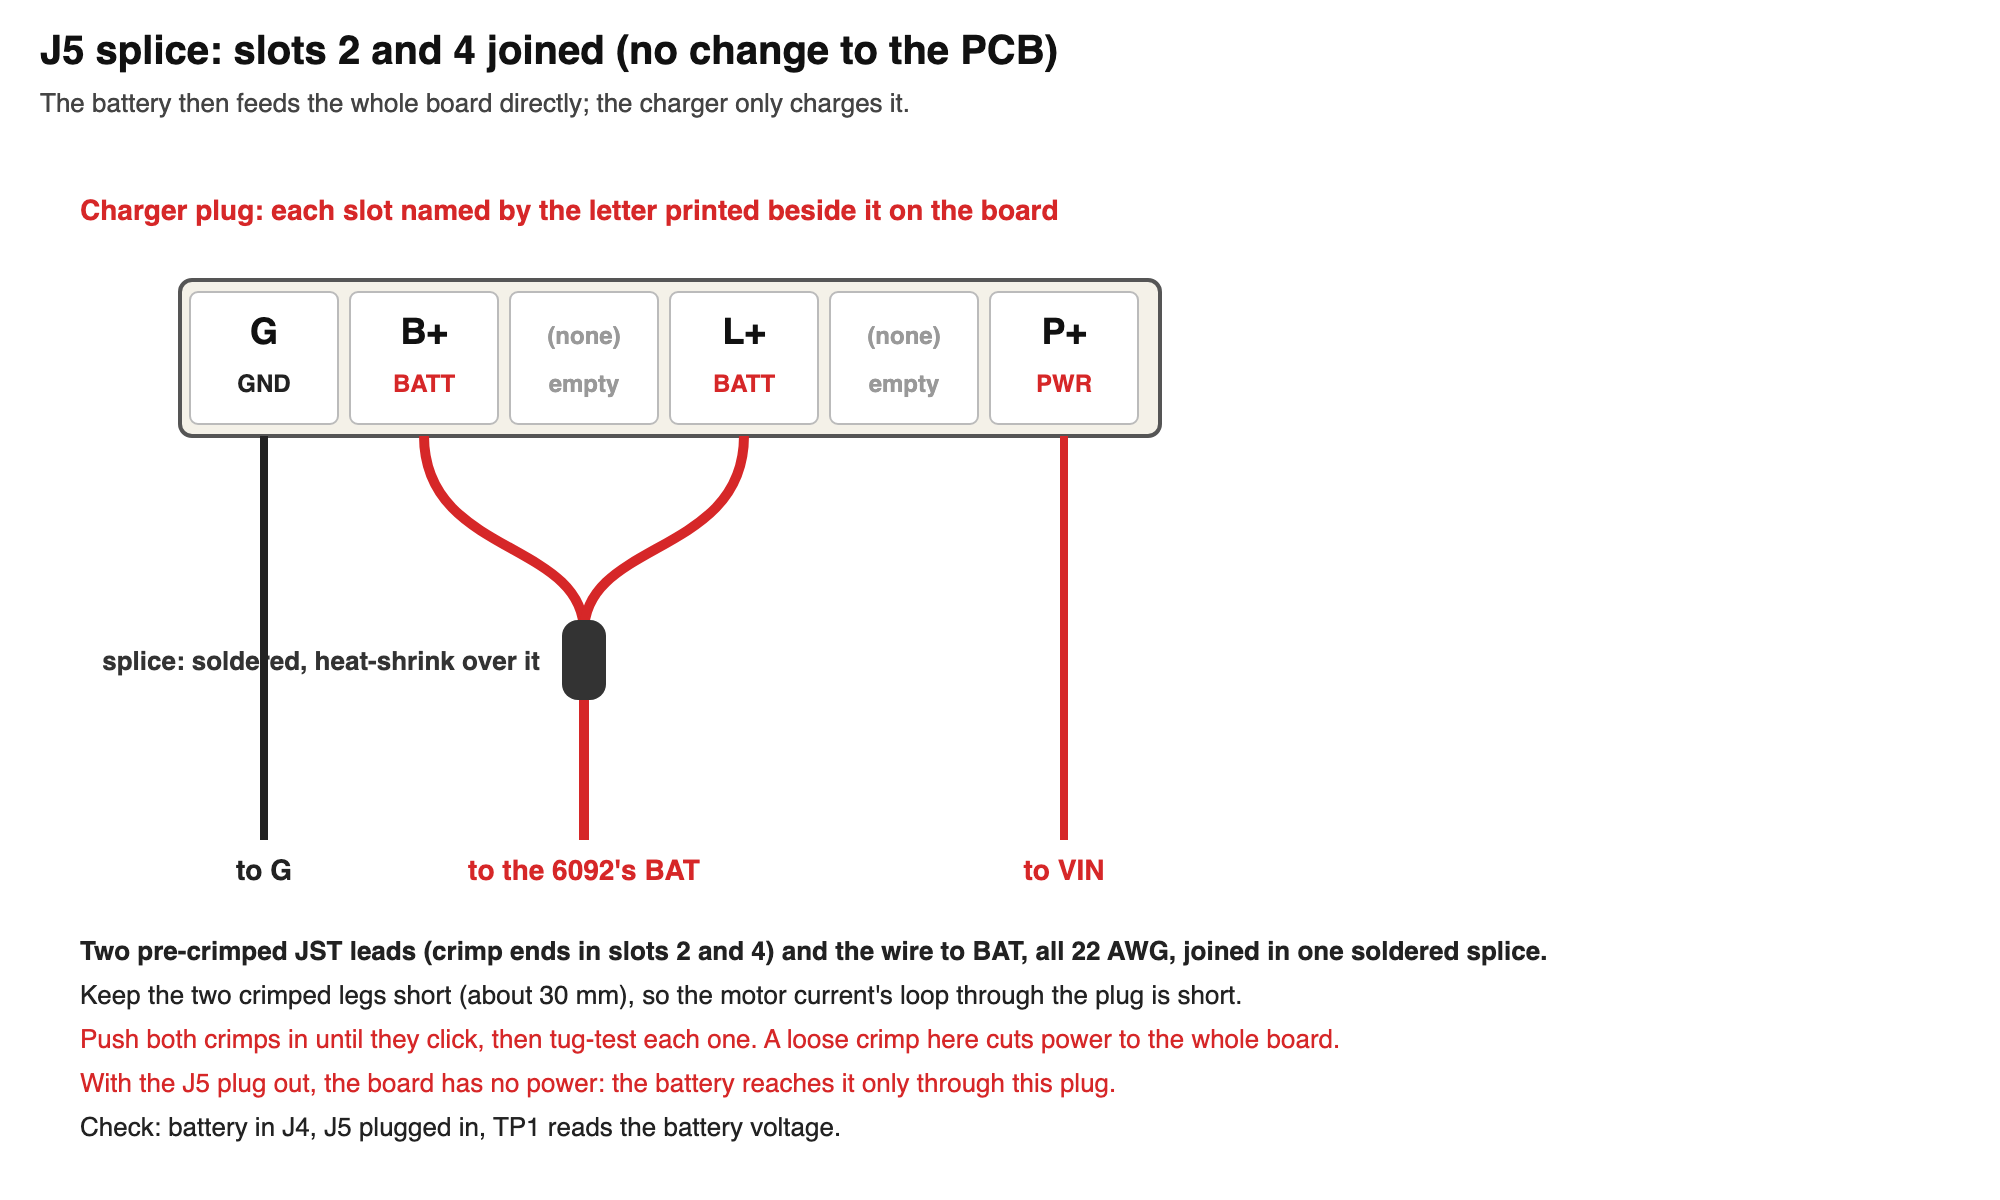
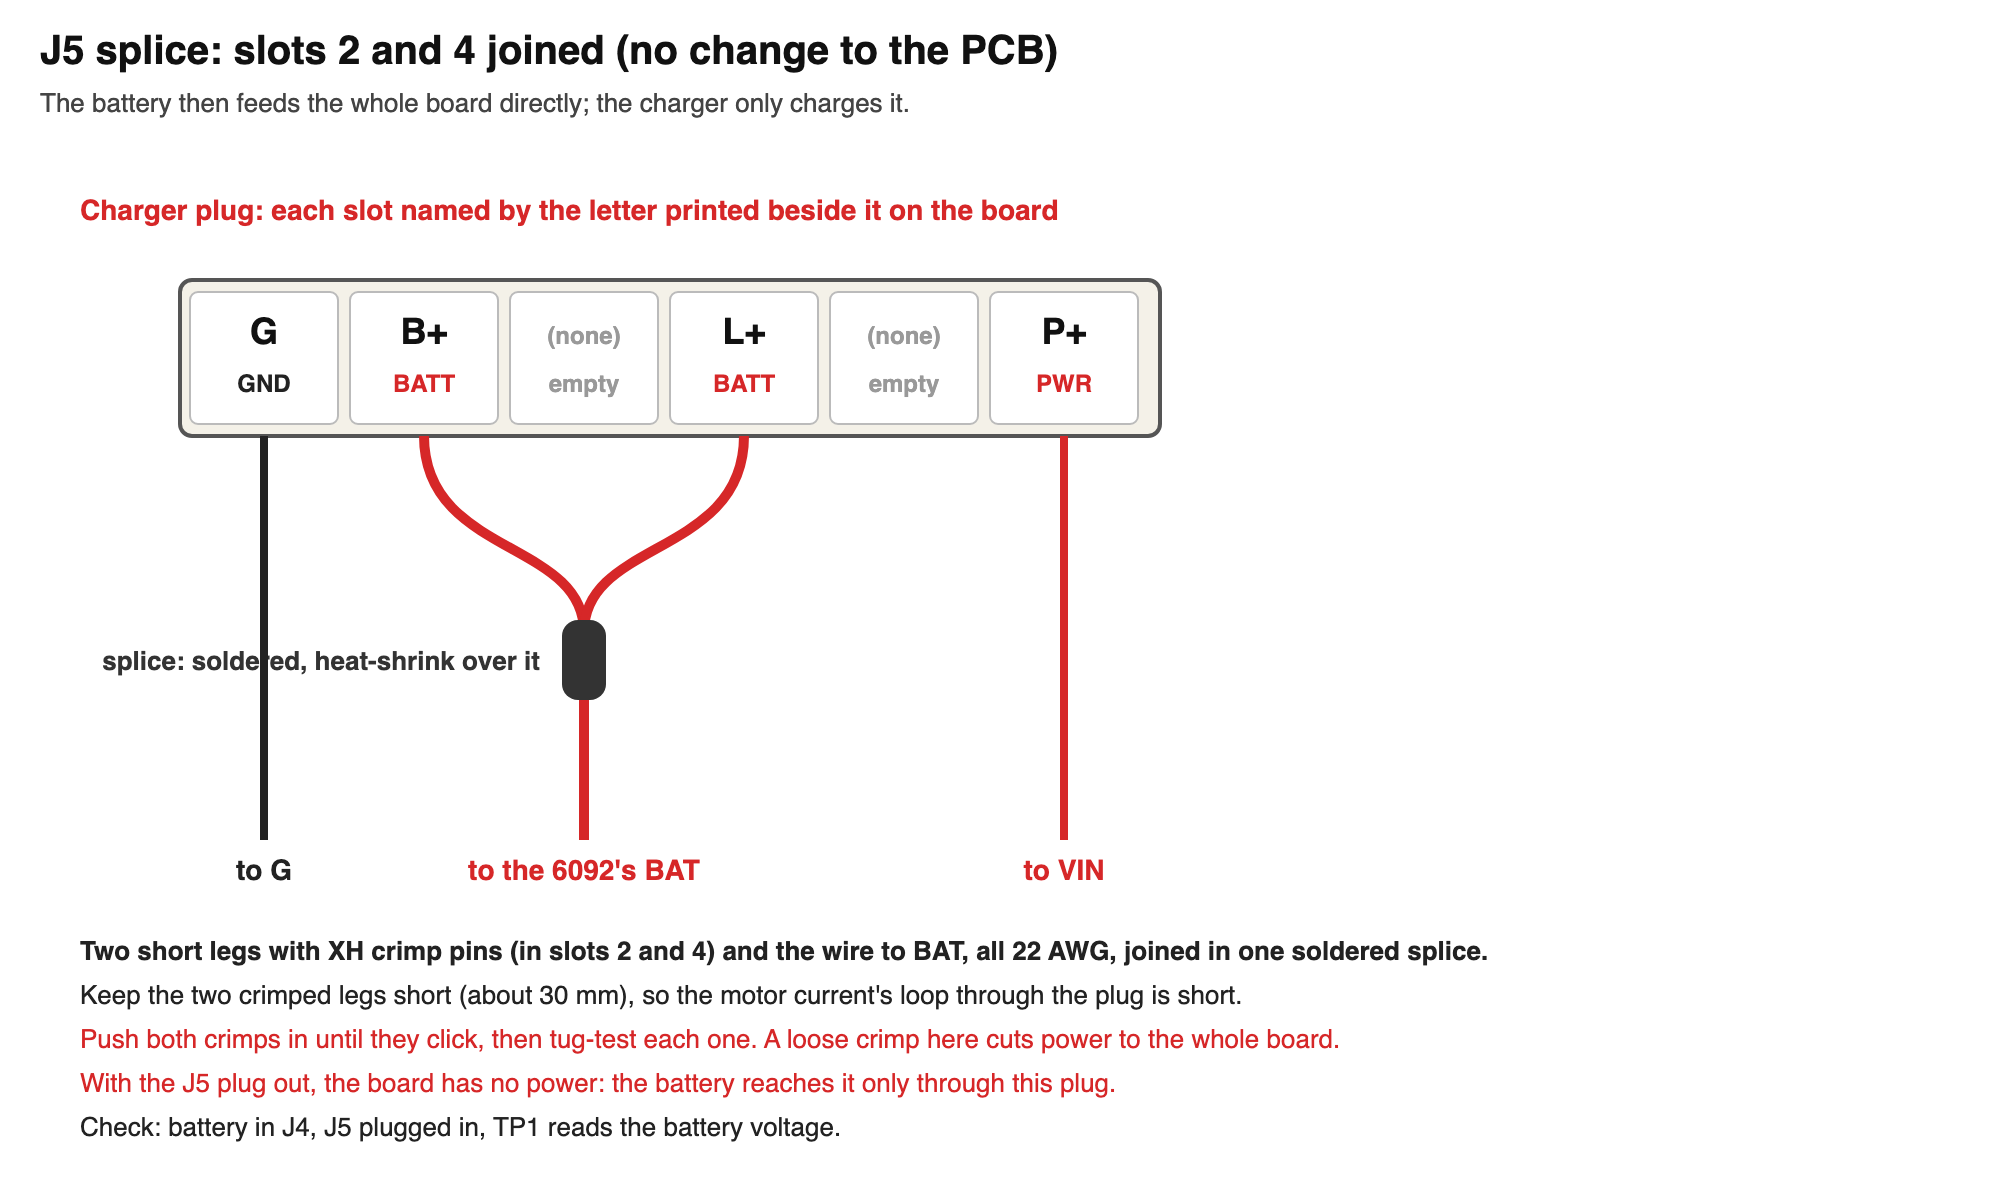
BOM and build guide: crimp your own J5 pins, pre-crimped XH leads optional (#242) (#243)
Default is plain 22 AWG wire with JST-XH crimp pins (SXH-001T-P0.6) for the
XHP-6 plug in J5. The pre-crimped leads stay as the option with no crimper.
Adds the crimp pins to the PCB parts and a crimper to Tools.

Session: BOM: crimp your own J5 pins

Changed region(s): [[0.062, 0.7708, 0.775, 0.8017]]

diff --git a/tools/pcb_guide.py b/tools/pcb_guide.py
@@ -525,7 +525,7 @@ def splice_picture():
         o.append('<line x1="%d" y1="%d" x2="%d" y2="%d" stroke="%s" stroke-width="4"/>' % (x0, y0, x0, sy + 90, c))
         o.append(text(x0, sy + 110, lab, 14, c, 'bold'))
     for k_, t in enumerate([
-            'Two pre-crimped JST leads (crimp ends in slots 2 and 4) and the wire to BAT, all 22 AWG, joined in one soldered splice.',
+            'Two short legs with XH crimp pins (in slots 2 and 4) and the wire to BAT, all 22 AWG, joined in one soldered splice.',
             'Keep the two crimped legs short (about 30 mm), so the motor current\'s loop through the plug is short.',
             'Push both crimps in until they click, then tug-test each one. A loose crimp here cuts power to the whole board.',
             'With the J5 plug out, the board has no power: the battery reaches it only through this plug.',
@@ -605,7 +605,7 @@ def md():
                                    ', '.join(r for r, _ in lst), ', '.join(sorted({str(k) for _, k in lst}))))
     a('| ESP32-C6 SuperMini (male pins on, flashed on the bench) | 1 | plugs into J1 / J2 | 13 |')
     a('| Adafruit 6092 charger (bq25185), charging only, + 3-wire harness (6-pin XH housing) | 1 | J5 | 11 |')
-    a('| Extra pre-crimped JST lead for the J5 battery splice (slot 4) + heat-shrink | 1 | J5 plug | 11 |')
+    a('| JST-XH crimp pins on 22 AWG wire (or the optional pre-crimped leads) for the J5 harness, + heat-shrink | 4 | J5 plug | 11 |')
     a('| 18650 cell with its JST-XH plug | 1 | J4 | 12 |')
     a('| Solar panel lead with a JST-ZH 2-pin plug (optional) | 1 | J8 | 11 |')
     a('')
@@ -809,15 +809,17 @@ def md():
     a('')
     a('| Lead | Wire | Cut | From → to |')
     a('|---|---|---|---|')
-    a('| Splice leg A | 22 AWG, pre-crimped JST lead | about 30 mm | J5 slot 2 → the splice |')
-    a('| Splice leg B | 22 AWG, pre-crimped JST lead | about 30 mm | J5 slot 4 → the splice |')
+    a('| Splice leg A | 22 AWG, XH crimp pin on the plug end | about 30 mm | J5 slot 2 → the splice |')
+    a('| Splice leg B | 22 AWG, XH crimp pin on the plug end | about 30 mm | J5 slot 4 → the splice |')
     a('| Charger BATT | 22 AWG | about 50 mm | the splice → **BAT** pad |')
-    a('| Charger GND | 22 AWG, pre-crimped JST lead | 76 mm | J5 pin 1 → **G** pad |')
-    a('| Charger PWR | 22 AWG, pre-crimped JST lead | 76 mm | J5 pin 6 → **VIN** pad (solar in; USB shows here too) |')
+    a('| Charger GND | 22 AWG, XH crimp pin on the plug end | 76 mm | J5 pin 1 → **G** pad |')
+    a('| Charger PWR | 22 AWG, XH crimp pin on the plug end | 76 mm | J5 pin 6 → **VIN** pad (solar in; USB shows here too) |')
     a('| Battery | the cell\'s own JST-XH lead (needs ≥ 45 mm) | as is | cell → J4 |')
     a('| Solar (optional) | the panel\'s flat 2-core cable | to suit | through end wall B → JST-ZH plug in J8 |')
     a('')
-    a('The pre-crimped JST leads are 152 mm with a crimp on both ends: cut them so the crimp end goes in the J5 housing.')
+    a('Cut the four plug wires, strip about 2 mm on one end and crimp a JST-XH pin (SXH-001T-P0.6) on it with an XH')
+    a('crimper. Tug each pin hard: it must not slide off. **No crimper?** Use the optional pre-crimped leads (152 mm, a')
+    a('crimp on both ends) instead: cut each one to the length above, keeping a crimp end for the J5 housing.')
     a('')
     a('### 11a: The battery splice in the J5 plug (slots 2 and 4)')
     a('')
@@ -826,7 +828,7 @@ def md():
     a('Nothing changes on the PCB. On the board, J5 pin 2 is the battery and pin 4 is the board supply; putting the battery')
     a('wire in **both** slots joins them, so the battery feeds the board directly.')
     a('')
-    a('1. Two pre-crimped leads, cut to about **30 mm**: their crimp ends go in **slot 2** and **slot 4**.')
+    a('1. The two splice legs, about **30 mm** each, with their crimp pins in **slot 2** and **slot 4**.')
     a('2. Strip the two bare ends and the wire to the 6092\'s **BAT** pad, twist all three together, solder, and slide')
     a('   heat-shrink over the joint.')
     a('3. If your J5 plug still has the old LOAD wire in slot 4, pull it out first (lift the plastic tab over its crimp with a')

diff --git a/hardware/BOM.md b/hardware/BOM.md
@@ -113,12 +113,13 @@ References match the [PCB build guide](../docs/pcb-build.md).
 | JST-XH header, 2-pin, vertical | **B2B-XH-A(LF)(SN)** | 1 (J4, battery) | each |
 | JST-XH header, 6-pin, vertical | **B6B-XH-A(LF)(SN)** | 1 (J5, charger) | each |
 | JST-XH 6-pin housing | **XHP-6** | 1 | each |
-| Pre-crimped JST-XH leads, 6", crimp both ends (cut in half = 2 leads) | **ASXHSXH22K152** | 2 (4 half leads: 2 splice, GND, PWR) | each |
+| JST-XH crimp pins, for 22 AWG wire | JST **SXH-001T-P0.6** | 4 (J5 plug: 2 splice, GND, PWR) | bag |
+| Optional, only with no JST crimper: pre-crimped JST-XH leads, 6", crimp both ends (cut in half = 2 leads), in place of the crimp pins and wire | **ASXHSXH22K152** | 2 (4 half leads) | each |
 | JST-ZH header, 2-pin, vertical (solar, optional) | **B2B-ZR(LF)(SN)** | 1 (J8) | each |
 | Female header socket, 10-way | Sullins **PPTC101LFBN-RC** | 2 (J1, J2: ESP) | each |
 | Resistors, 1/4 W metal film | 1 MΩ ×4, 1 kΩ ×3, 220 Ω ×6, 10 Ω ×3, 100 kΩ ×3 | 19 | kit ([B072BL2VX1](https://www.amazon.com/dp/B072BL2VX1)) |
 | Ceramic capacitors (the kit also covers each tilter's 10 µF) | 100 nF ×5, 10 µF ×1 | 6 | kit ([B0C1V8Q93P](https://www.amazon.com/dp/B0C1V8Q93P)) |
-| 22 AWG stranded wire | about 5 cm (charger BAT lead) | | the red roll ([Buy once](#buy-once)) |
+| 22 AWG stranded wire | about 30 cm (the J5 harness; 5 cm with the pre-crimped leads) | | the red and black rolls ([Buy once](#buy-once)) |
 
 J3 (a 6-way socket for a separate USB-C board) is not used: USB plugs into the 6092's own USB-C.
 
@@ -164,7 +165,7 @@ Shared supplies: one of each covers many blinds. The per-unit amounts say how fa
 | M3 countersunk screw kit, 4–20 mm | M3 × 20, M3 × 16 and M3 × 8 (5 per tilter, plus 2 reusable M3 × 16), M3 × 10 (3 per box) | kit | [B0DZCFNKHZ](https://www.amazon.com/dp/B0DZCFNKHZ) |
 | M1.6 × 4 socket screws | 2 per tilter | kit | [B0DK9TQVT4](https://www.amazon.com/dp/B0DK9TQVT4) |
 | 30 AWG silicone stranded wire, 6 colors | about 40 cm per tilter | kit | [B07G2SWB19](https://www.amazon.com/dp/B07G2SWB19) |
-| 22 AWG stranded wire, red and black | about 12 cm per tilter, 5 cm per controller | small roll each | search "22 AWG silicone wire red black" |
+| 22 AWG stranded wire, red and black | about 12 cm per tilter, 30 cm per controller | small roll each | search "22 AWG silicone wire red black" |
 | 2-conductor 22 AWG (motor leads; any color, the build used red and black) | about 8 cm per tilter | roll (30 ft) | [B0DRTS9P8N](https://www.amazon.com/dp/B0DRTS9P8N) |
 | Heat-shrink kit | a few pieces per tilter and controller | kit | [B01MFA3OFA](https://www.amazon.com/dp/B01MFA3OFA) |
 | PTFE grease, Super Lube 21030 | a little per tilter | tube | [B000XBH9HI](https://www.amazon.com/dp/B000XBH9HI) |
@@ -172,8 +173,9 @@ Shared supplies: one of each covers many blinds. The per-unit amounts say how fa
 | White PLA and white PETG filament | the tilters, the boxes and the hub box | spool each | |
 
 ## Tools
-Soldering iron (also presses the heat-set inserts), multimeter with beep mode, flush cutters, a USB-C cable to flash
-the ESP. Only for a cord through a wall: a drill and a 5/8 in bit.
+Soldering iron (also presses the heat-set inserts), multimeter with beep mode, flush cutters, wire strippers, a
+crimper for JST-XH pins (an open-barrel crimper, such as an Engineer PA-09 or IWISS SN-28B), a USB-C cable to flash
+the ESP. No crimper? Use the optional pre-crimped XH leads for the J5 plug. Only for a cord through a wall: a drill and a 5/8 in bit.
 Handy: a USB-C power meter ([B0DF2LDKFC](https://www.amazon.com/dp/B0DF2LDKFC)) for charge and motor current.
 
 ## Check on arrival

diff --git a/docs/pcb-build.md b/docs/pcb-build.md
@@ -42,7 +42,7 @@ the box floor.
 | 0.75A PTC | 3 | F1, F2, F3 | 9 |
 | ESP32-C6 SuperMini (male pins on, flashed on the bench) | 1 | plugs into J1 / J2 | 13 |
 | Adafruit 6092 charger (bq25185), charging only, + 3-wire harness (6-pin XH housing) | 1 | J5 | 11 |
-| Extra pre-crimped JST lead for the J5 battery splice (slot 4) + heat-shrink | 1 | J5 plug | 11 |
+| JST-XH crimp pins on 22 AWG wire (or the optional pre-crimped leads) for the J5 harness, + heat-shrink | 4 | J5 plug | 11 |
 | 18650 cell with its JST-XH plug | 1 | J4 | 12 |
 | Solar panel lead with a JST-ZH 2-pin plug (optional) | 1 | J8 | 11 |
 
@@ -242,15 +242,17 @@ only 0.05–0.15 A instead of 0.35 A, even off the PCB, and starved the ESP on U
 
 | Lead | Wire | Cut | From → to |
 |---|---|---|---|
-| Splice leg A | 22 AWG, pre-crimped JST lead | about 30 mm | J5 slot 2 → the splice |
-| Splice leg B | 22 AWG, pre-crimped JST lead | about 30 mm | J5 slot 4 → the splice |
+| Splice leg A | 22 AWG, XH crimp pin on the plug end | about 30 mm | J5 slot 2 → the splice |
+| Splice leg B | 22 AWG, XH crimp pin on the plug end | about 30 mm | J5 slot 4 → the splice |
 | Charger BATT | 22 AWG | about 50 mm | the splice → **BAT** pad |
-| Charger GND | 22 AWG, pre-crimped JST lead | 76 mm | J5 pin 1 → **G** pad |
-| Charger PWR | 22 AWG, pre-crimped JST lead | 76 mm | J5 pin 6 → **VIN** pad (solar in; USB shows here too) |
+| Charger GND | 22 AWG, XH crimp pin on the plug end | 76 mm | J5 pin 1 → **G** pad |
+| Charger PWR | 22 AWG, XH crimp pin on the plug end | 76 mm | J5 pin 6 → **VIN** pad (solar in; USB shows here too) |
 | Battery | the cell's own JST-XH lead (needs ≥ 45 mm) | as is | cell → J4 |
 | Solar (optional) | the panel's flat 2-core cable | to suit | through end wall B → JST-ZH plug in J8 |
 
-The pre-crimped JST leads are 152 mm with a crimp on both ends: cut them so the crimp end goes in the J5 housing.
+Cut the four plug wires, strip about 2 mm on one end and crimp a JST-XH pin (SXH-001T-P0.6) on it with an XH
+crimper. Tug each pin hard: it must not slide off. **No crimper?** Use the optional pre-crimped leads (152 mm, a
+crimp on both ends) instead: cut each one to the length above, keeping a crimp end for the J5 housing.
 
 ### 11a: The battery splice in the J5 plug (slots 2 and 4)
 
@@ -259,7 +261,7 @@ The pre-crimped JST leads are 152 mm with a crimp on both ends: cut them so the 
 Nothing changes on the PCB. On the board, J5 pin 2 is the battery and pin 4 is the board supply; putting the battery
 wire in **both** slots joins them, so the battery feeds the board directly.
 
-1. Two pre-crimped leads, cut to about **30 mm**: their crimp ends go in **slot 2** and **slot 4**.
+1. The two splice legs, about **30 mm** each, with their crimp pins in **slot 2** and **slot 4**.
 2. Strip the two bare ends and the wire to the 6092's **BAT** pad, twist all three together, solder, and slide
    heat-shrink over the joint.
 3. If your J5 plug still has the old LOAD wire in slot 4, pull it out first (lift the plastic tab over its crimp with a
